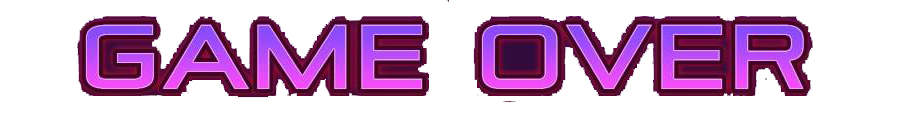
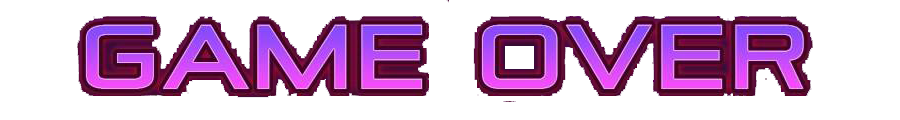
update final

Changed region(s): [[0.56, 0.375, 0.5911, 0.575]]

diff --git a/js/state/play.js b/js/state/play.js
@@ -249,17 +249,17 @@ var getCollie = function(playerSprite, enemySprite){
         Fighter.game.time.events.remove(loop4);
 
         Fighter.playerDie = true;
-        var gameover = Fighter.game.add.image(400, 150, 'gameover');
-        gameover.width = 900;
-        gameover.height = 350;
+        var gameover = Fighter.game.add.image(200, 150, 'gameover');
+        gameover.width = 1300;
+        gameover.height = 250;
 
         if(localStorage.getItem("highscore") < Fighter.score){
           localStorage.setItem("highscore", Fighter.score);
         }
-        var score = Fighter.game.add.text(700,550, 'Score: ' + Fighter.score,{font: "bold 50px Arial", fill: "#ffffff", boundsAlignH: "center", boundsAlignV: "middle"});
-        var highscore = Fighter.game.add.text(650,650, 'Highscore:' + localStorage.getItem("highscore"),{font: "bold 50px Arial", fill: "white", boundsAlignH: "center", boundsAlignV: "middle"});
+        var score = Fighter.game.add.text(700,450, 'Score: ' + Fighter.score,{font: "bold 50px Arial", fill: "#000000", boundsAlignH: "center", boundsAlignV: "middle"});
+        var highscore = Fighter.game.add.text(650,550, 'Highscore:' + localStorage.getItem("highscore"),{font: "bold 50px Arial", fill: "black", boundsAlignH: "center", boundsAlignV: "middle"});
 
-        var replay = Fighter.game.add.button(700, 750, 'replay', playState.replay, this);
+        var replay = Fighter.game.add.button(700, 650, 'replay', playState.replay, this);
         replay.width = 200;
         replay.height = 200;
         Fighter.game.paused;

diff --git a/js/state/play2.js b/js/state/play2.js
@@ -349,10 +349,10 @@ var getCollie2 = function(playerSprite, enemySprite){
         if(localStorage.getItem("highscore") < Fighter.score){
           localStorage.setItem("highscore", Fighter.score);
         }
-        var score = Fighter.game.add.text(700,550, 'Score: ' + Fighter.score,{font: "bold 50px Arial", fill: "#ffffff", boundsAlignH: "center", boundsAlignV: "middle"});
-        var highscore = Fighter.game.add.text(650,650, 'Highscore:' + localStorage.getItem("highscore"),{font: "bold 50px Arial", fill: "white", boundsAlignH: "center", boundsAlignV: "middle"});
+        var score = Fighter.game.add.text(700,450, 'Score: ' + Fighter.score,{font: "bold 50px Arial", fill: "#000000", boundsAlignH: "center", boundsAlignV: "middle"});
+        var highscore = Fighter.game.add.text(650,550, 'Highscore:' + localStorage.getItem("highscore"),{font: "bold 50px Arial", fill: "black", boundsAlignH: "center", boundsAlignV: "middle"});
 
-        var replay = Fighter.game.add.button(700, 750, 'replay', play2State.replay, this);
+        var replay = Fighter.game.add.button(700, 650, 'replay', playState.replay, this);
         replay.width = 200;
         replay.height = 200;
         Fighter.game.paused;

diff --git a/js/state/play3.js b/js/state/play3.js
@@ -207,10 +207,10 @@ var onBulletHitPlayer = function(bulletSprite, playerSprite){
 		if(localStorage.getItem("highscore") < Fighter.score){
 			localStorage.setItem("highscore", Fighter.score);
 		}
-		var score = Fighter.game.add.text(700,550, 'Score: ' + Fighter.score,{font: "bold 50px Arial", fill: "#ffffff", boundsAlignH: "center", boundsAlignV: "middle"});
-		var highscore = Fighter.game.add.text(650,650, 'Highscore:' + localStorage.getItem("highscore"),{font: "bold 50px Arial", fill: "white", boundsAlignH: "center", boundsAlignV: "middle"});
+		var score = Fighter.game.add.text(700,450, 'Score: ' + Fighter.score,{font: "bold 50px Arial", fill: "#000000", boundsAlignH: "center", boundsAlignV: "middle"});
+		var highscore = Fighter.game.add.text(650,550, 'Highscore:' + localStorage.getItem("highscore"),{font: "bold 50px Arial", fill: "black", boundsAlignH: "center", boundsAlignV: "middle"});
 
-		var replay = Fighter.game.add.button(700, 750, 'replay', play3State.replay, this);
+		var replay = Fighter.game.add.button(700, 650, 'replay', playState.replay, this);
 		replay.width = 200;
 		replay.height = 200;
 		Fighter.game.paused;
